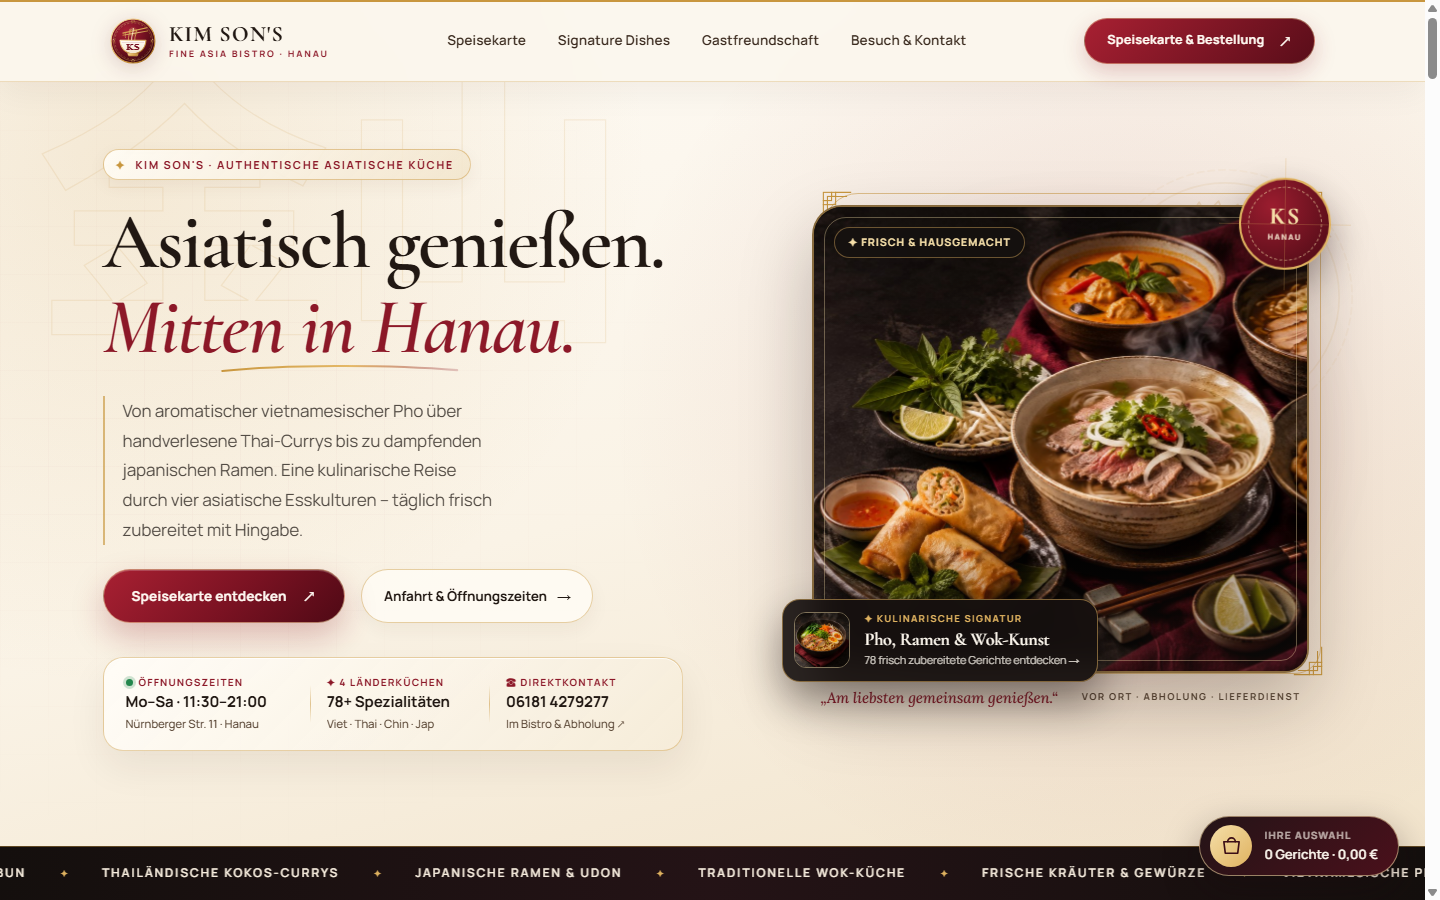
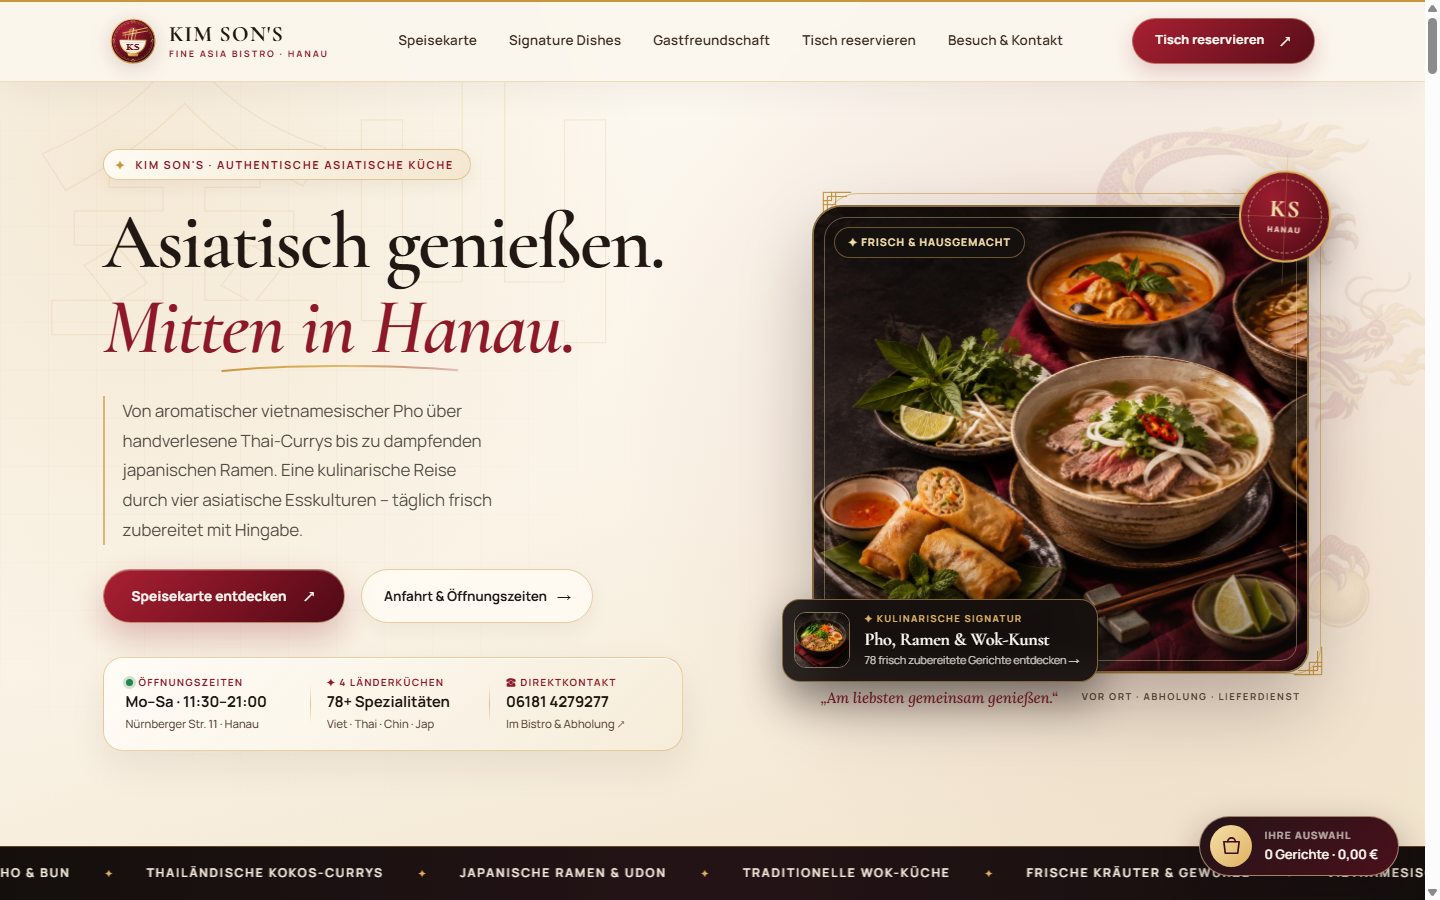
upload

diff --git a/css/bistro.css b/css/bistro.css
@@ -245,6 +245,21 @@ button, input, select, textarea {
   user-select: none;
 }
 
+.hero-dragon-art {
+  position: absolute;
+  z-index: 1;
+  top: calc(var(--header-h) + 8px);
+  right: max(-84px, calc((100vw - 1500px) / 2));
+  width: clamp(300px, 32vw, 470px);
+  height: auto;
+  opacity: 0.105;
+  filter: saturate(0.82) drop-shadow(0 18px 28px rgba(89, 13, 25, 0.12));
+  transform: rotate(7deg);
+  transform-origin: 50% 50%;
+  pointer-events: none;
+  user-select: none;
+}
+
 .hero-content {
   position: relative;
   z-index: 2;
@@ -1228,15 +1243,18 @@ button, input, select, textarea {
   -webkit-text-stroke: 1px rgba(140, 24, 40, 0.12);
 }
 
-.reservation-dragon-watermark {
+.reservation-dragon-art {
   position: absolute;
-  left: -80px;
-  bottom: -100px;
-  width: 420px;
-  height: 420px;
-  color: var(--wine);
-  opacity: 0.035;
+  z-index: 0;
+  top: 50%;
+  left: max(-150px, calc((100vw - 1500px) / 2 - 90px));
+  width: clamp(360px, 34vw, 500px);
+  height: auto;
+  opacity: 0.09;
+  filter: saturate(0.78);
+  transform: translateY(-50%) rotate(-7deg);
   pointer-events: none;
+  user-select: none;
 }
 
 .reservation-grid {
@@ -1927,6 +1945,20 @@ button, input, select, textarea {
   .reservation-copy {
     max-width: 650px;
   }
+  .hero-dragon-art {
+    top: calc(var(--header-h) + 70px);
+    right: -105px;
+    width: 360px;
+    opacity: 0.08;
+  }
+  .reservation-dragon-art {
+    top: 26%;
+    right: -120px;
+    left: auto;
+    width: 360px;
+    opacity: 0.075;
+    transform: rotate(8deg);
+  }
   .visit-map-frame {
     min-height: 320px;
   }
@@ -1963,6 +1995,12 @@ button, input, select, textarea {
   }
   .hero {
     padding: calc(var(--header-h) + 18px) 0 42px;
+  }
+  .hero-dragon-art {
+    top: calc(var(--header-h) + 36px);
+    right: -120px;
+    width: 300px;
+    opacity: 0.075;
   }
   .hero-content {
     gap: 26px;
@@ -2166,6 +2204,13 @@ button, input, select, textarea {
   }
   .reservation-grid {
     gap: 28px;
+  }
+  .reservation-dragon-art {
+    top: 150px;
+    right: -108px;
+    width: 280px;
+    opacity: 0.085;
+    transform: rotate(10deg);
   }
   .reservation-card {
     border-radius: 20px;

diff --git a/index.html b/index.html
@@ -166,6 +166,7 @@
     <section class="hero" id="startseite" aria-labelledby="hero-title">
       <div class="hero-ambient" aria-hidden="true"></div>
       <div class="hero-watermark" aria-hidden="true">金山</div>
+      <img class="hero-dragon-art" src="assets/images/dragon-ornament.png" alt="" width="554" height="710" aria-hidden="true" fetchpriority="high">
       <div class="hero-content section-shell">
         <div class="hero-copy-col">
           <div class="hero-heading">
@@ -223,7 +224,6 @@
 
         <div class="hero-stage">
           <div class="hero-stage-glow" aria-hidden="true"></div>
-          <svg class="hero-dragon-crest" aria-hidden="true"><use href="#dragon-pearl-crest"/></svg>
           <div class="hero-frame-ornament" aria-hidden="true">
             <svg class="oriental-knot knot-tl"><use href="#oriental-knot"/></svg>
             <svg class="oriental-knot knot-tr"><use href="#oriental-knot"/></svg>
@@ -452,7 +452,7 @@
 
     <section class="reservation section-pad paper-texture" id="reservierung" aria-labelledby="reservation-title">
       <span class="section-index" aria-hidden="true">04</span>
-      <svg class="reservation-dragon-watermark" aria-hidden="true"><use href="#dragon-pearl-crest"/></svg>
+      <img class="reservation-dragon-art" src="assets/images/dragon-ornament.png" alt="" width="554" height="710" aria-hidden="true" loading="lazy">
       <div class="section-shell reservation-grid">
         <div class="reservation-copy">
           <p class="eyebrow dark"><span class="eyebrow-gem" aria-hidden="true">✦</span> Ihr Platz bei Kim Son's</p>

diff --git a/evidence/design-contract.md b/evidence/design-contract.md
@@ -8,6 +8,8 @@ Viewports: 390x844 and 1440x900; additionally inspect 320px text fit.
 States: local content loads without a blocking loader; empty search offers reset; empty cart offers browsing; selected dishes update the total; missing WhatsApp recipient is explained; no browser permissions are required. WhatsApp handoff is preparation, not proof of a delivered order.
 Keep keyboard focus visible, respect reduced motion, avoid horizontal page overflow and retain the existing cart/search/filter workflows.
 
+Dragon motif refinement (menu-cover reference): use one custom transparent burgundy-and-antique-gold Chinese dragon as the memorable visual detail. It appears as a restrained watermark in the hero and reservation section, never as a content image or behind form controls. Preserve legibility at 390x844 and 1440x900; the motif must remain decorative with empty alternative text and no interaction.
+
 Menu usability refinement: desktop category sidebar with counts; native category selector on mobile; global dish/code search; selected-dishes filter; inline quantity controls synchronized with the WhatsApp cart. Keep control hit areas at least 40px, preserve keyboard focus through quantity updates, and show recoverable empty-search and empty-selection states. Retain the user-selected warm palette.
 
 Palette refinement (user request: stronger color): chili red for prices and primary actions, deep leaf green for category selection and quantities, golden-cream toolbar and number badges, darker brown body text. Selected dishes receive an explicit red border/left accent and warm highlighted surface. Check foreground/background contrast at both target viewports.
